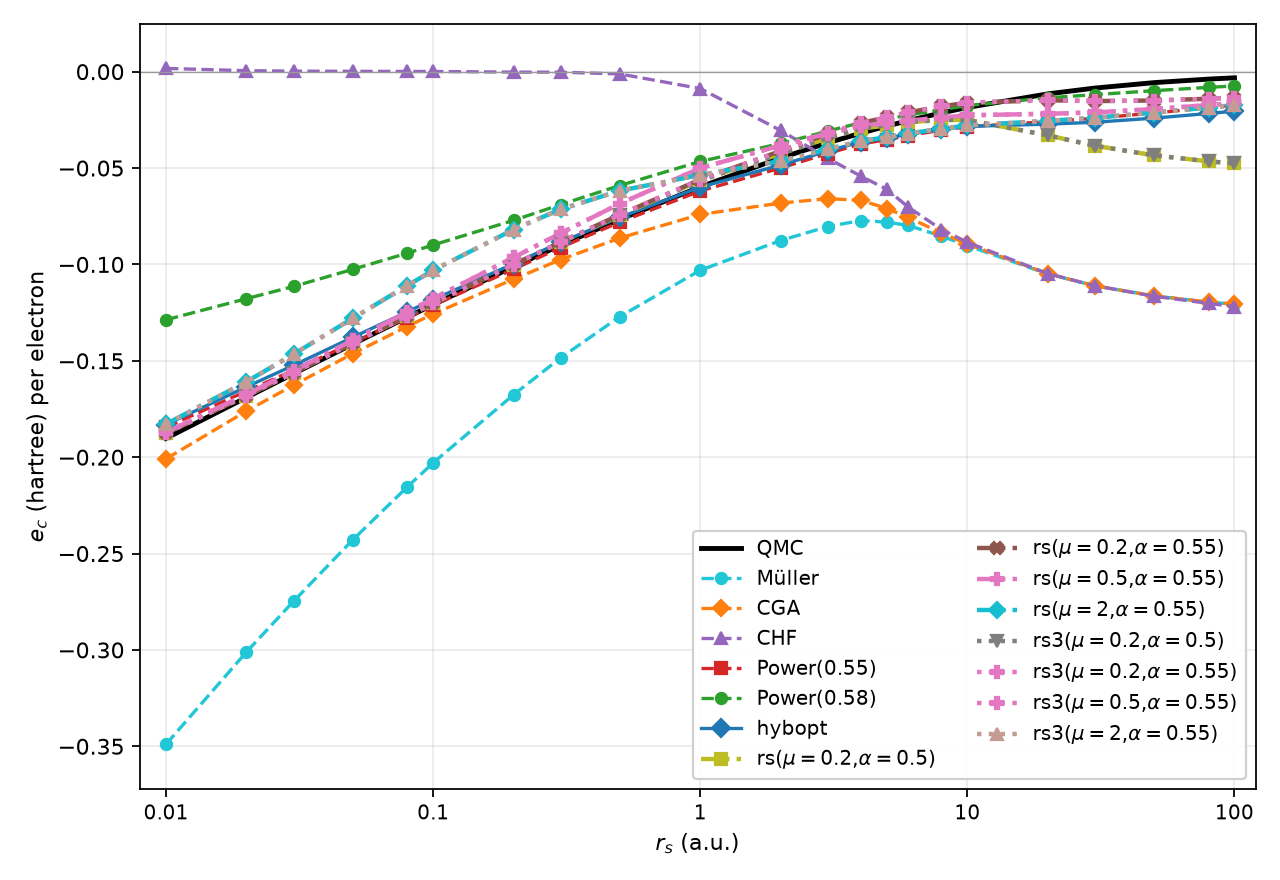
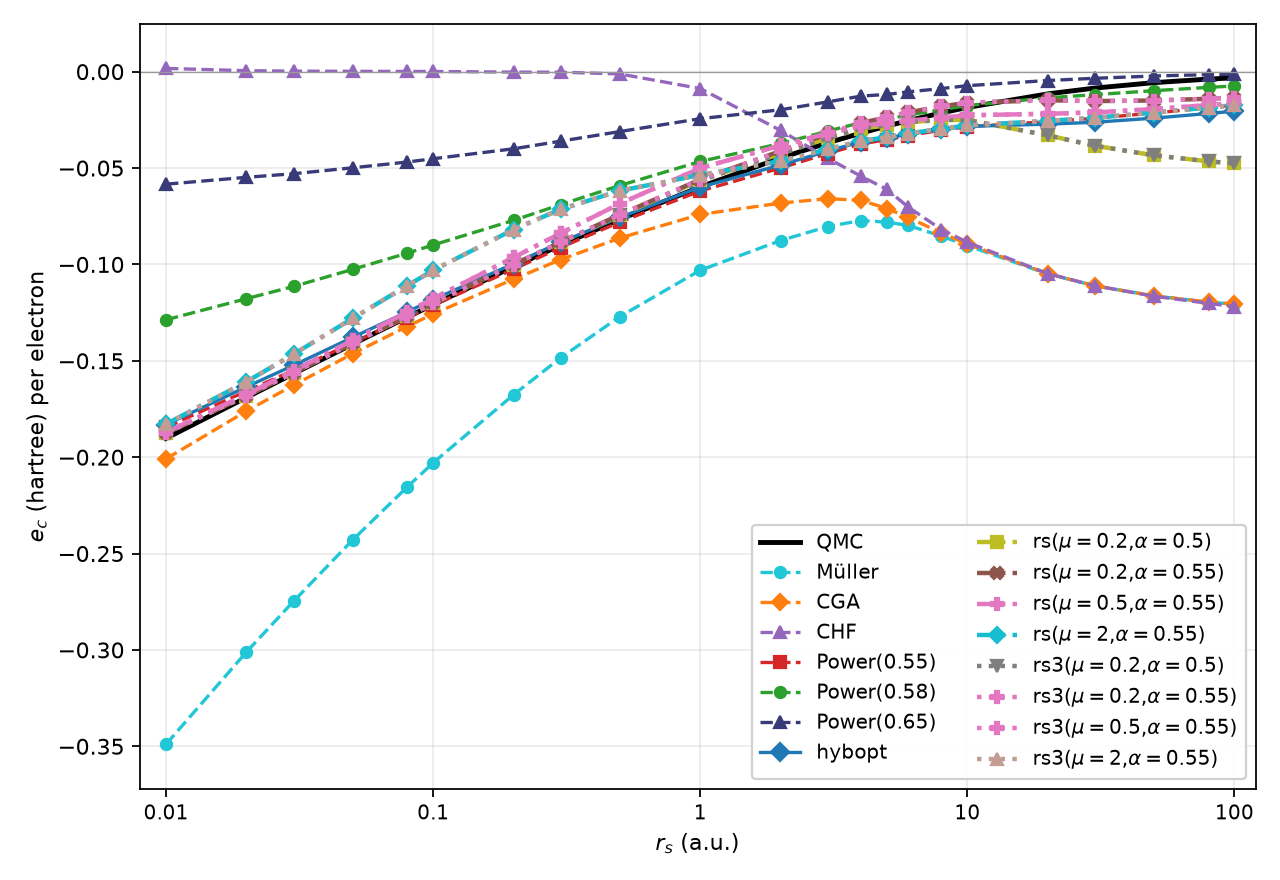
Add Power(0.65) functional and enhance plotting scripts
Updated the Makefile to include the new Power(0.65) functional in the FUNCS list. Added new data file for Power(0.65) results and modified plotting scripts to support additional output options, including the ability to omit rs and hybopt curves in the correlation energy plots. New figures generated for correlation energy analysis.

diff --git a/scripts/plot_results.py b/scripts/plot_results.py
@@ -181,6 +181,16 @@ def main():
         help="Only plot points with r_s <= this value.",
     )
     ap.add_argument(
+        "--no-rs",
+        action="store_true",
+        help="Omit rs, rs2, and rs3 curves.",
+    )
+    ap.add_argument(
+        "--no-hybopt",
+        action="store_true",
+        help="Omit the hybopt curve.",
+    )
+    ap.add_argument(
         "--mix-json",
         type=Path,
         default=Path("data/nk_mix_gz_best.json"),
@@ -203,6 +213,12 @@ def main():
             continue
         key = legend_key_for_subset(fn)
         if key is None:
+            continue
+        if args.no_rs and (
+            is_rs_series(key) or is_rs2_series(key) or is_rs3_series(key)
+        ):
+            continue
+        if args.no_hybopt and key == "hybopt":
             continue
         series_map.setdefault(key, {})[rs] = ec
         qmc_pairs.append((rs, ecq))

diff --git a/scripts/plot_common.py b/scripts/plot_common.py
@@ -17,6 +17,7 @@ WANTED_SERIES = (
     "CHF",
     "Power(0.55)",
     "Power(0.58)",
+    "Power(0.65)",
     "hybopt",
 )
 
@@ -38,6 +39,7 @@ SUBSET_STYLE: dict[str, tuple[str | None, str, str | None]] = {
     "hybopt": ("#1f77b4", "-", "D"),
     "Power(0.55)": ("#d62728", "--", "s"),
     "Power(0.58)": ("#2ca02c", "--", "o"),
+    "Power(0.65)": ("#393b79", "--", "^"),
     # Post-hoc 0.243 CGA + 0.757 Power(0.58) energy mix (see nk_mix_gz_best.json).
     "CGA+Power(0.58)": ("#393b79", "-.", "*"),
 }
